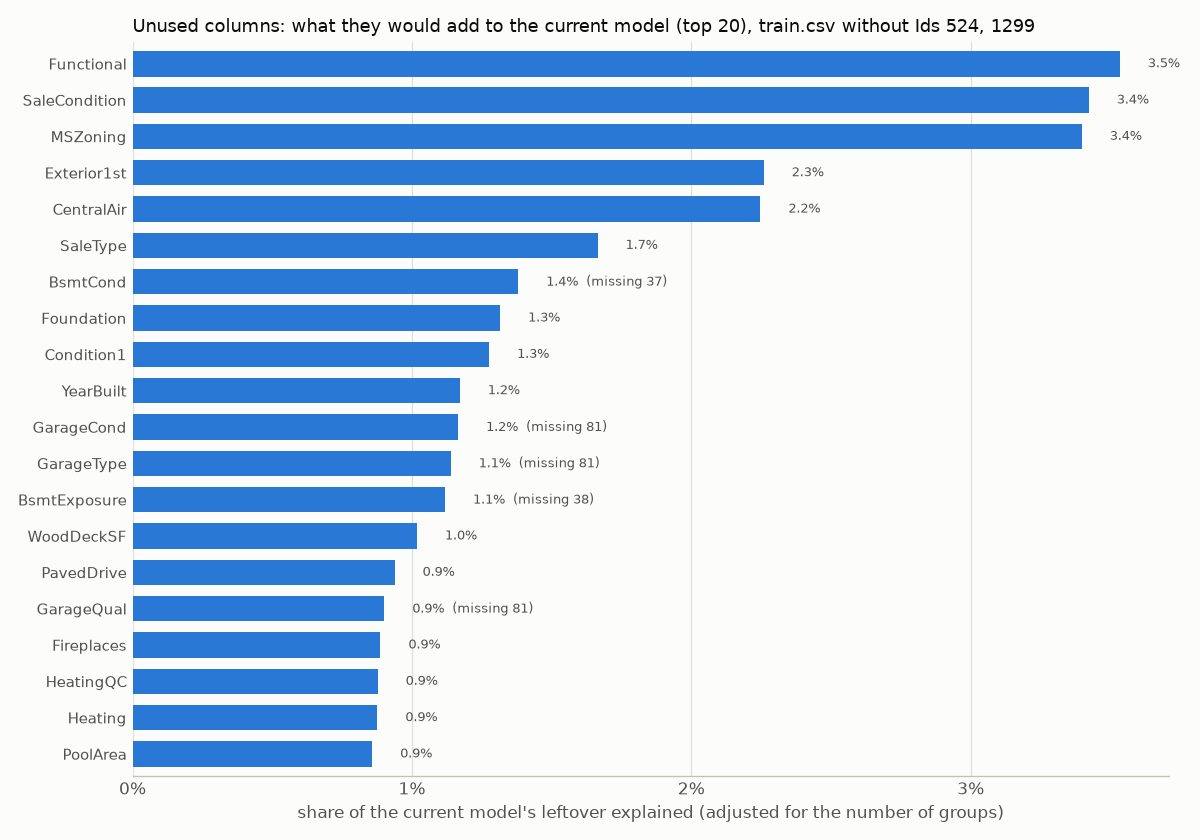
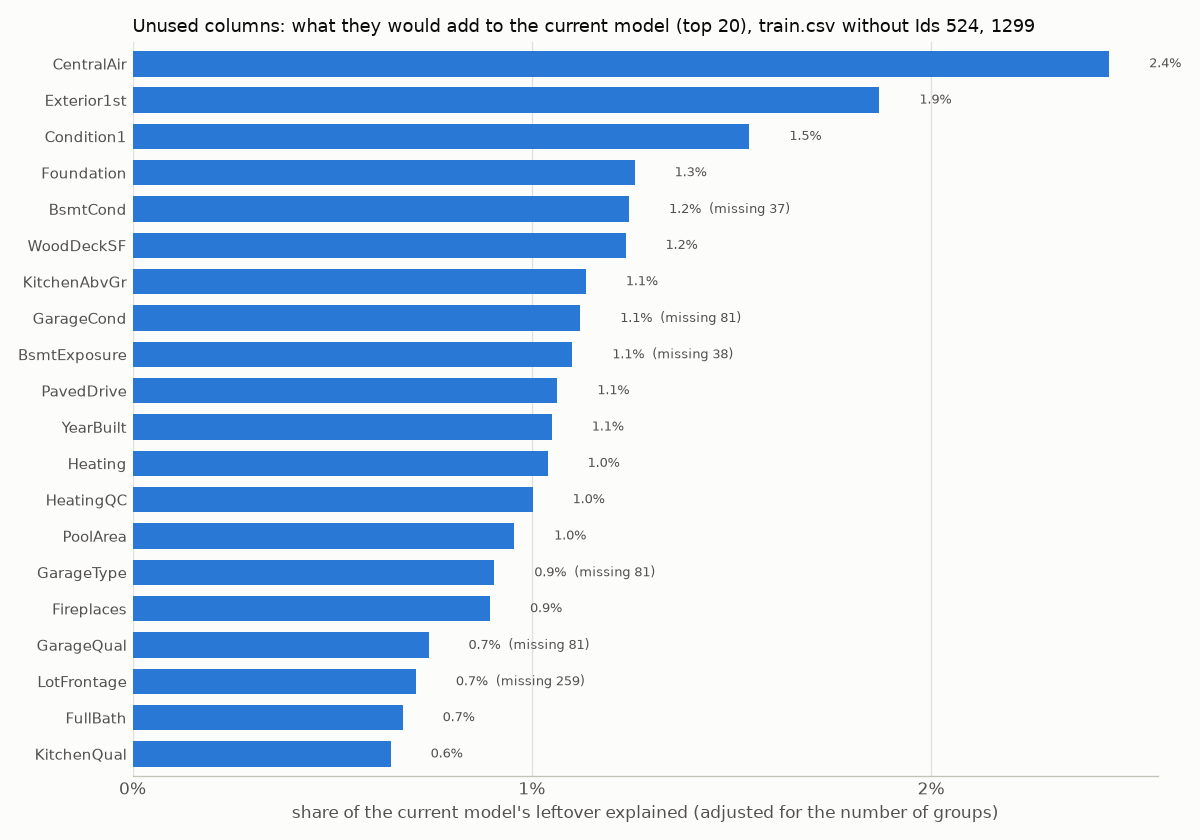
House Prices: re-rank unused columns after Functional and SaleCondition

diff --git a/house-prices/data_analysis.py b/house-prices/data_analysis.py
@@ -536,7 +536,7 @@ def plot_conditions(train, test):
 DECIDED_COLUMNS = ['Id', 'MSSubClass', 'Neighborhood', 'LotArea', 'OverallQual', 'OverallCond',
                    'YearRemodAdd', 'YrSold', 'GrLivArea', '1stFlrSF', '2ndFlrSF', 'LowQualFinSF', 'ExterQual',
                    'GarageCars', 'TotalBsmtSF', 'BsmtFinSF1', 'BsmtFinSF2', 'BsmtUnfSF', 'LotShape', 'Utilities',
-                   'BldgType', 'HouseStyle']
+                   'BldgType', 'HouseStyle', 'MSZoning', 'Functional', 'SaleCondition']
 
 
 def plot_leftover_ranking(train, skip, top=20):
